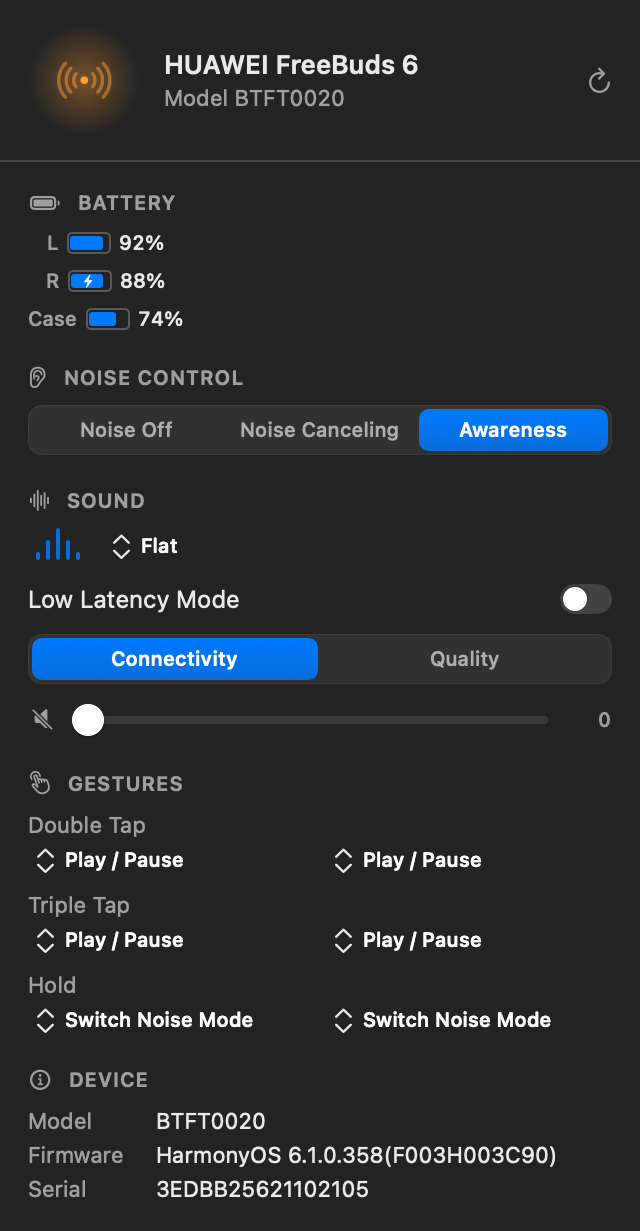
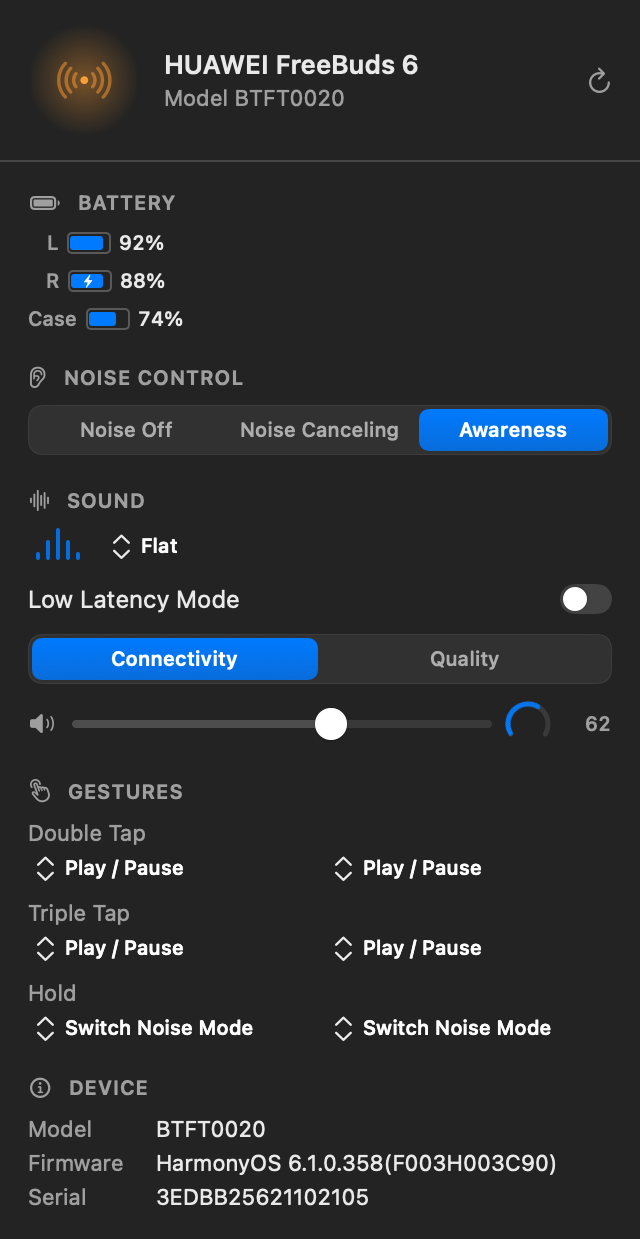
Fix the volume control: drive the Bluetooth sink's virtual main volume
The panel's volume slider was inert on Bluetooth earbuds:

- A pair of earbuds registers two CoreAudio devices under the same name —
  one for the microphone, one for the speakers. The lookup matched on name
  and picked the input device, which has no output volume.
- A Bluetooth sink keeps its software volume in the virtual main volume
  property ('vmvc'), not in kAudioDevicePropertyVolumeScalar, so the
  property the code read did not exist on the device and the level stayed
  at 0 while writes failed silently.

Now the input device is filtered out by checking for an output stream, and
the volume is read and written through the virtual main volume with the
per-channel scalars kept as a fallback. The live panel shows the real
level again.

Also replaces the AppKit-backed segmented pickers, popup buttons and
switch with hand-drawn SwiftUI controls, so the documentation renders
match the app, and adds the level arc to the volume row.

diff --git a/Sources/BudsCore/OutputVolume.swift b/Sources/BudsCore/OutputVolume.swift
@@ -34,6 +34,28 @@ public enum OutputVolume {
         return size
     }
 
+    /// The "virtual main volume" selector.
+    ///
+    /// Bluetooth audio devices expose their software volume through this
+    /// property rather than through `kAudioDevicePropertyVolumeScalar`: it
+    /// is the single value CoreAudio keeps for the sink, and the one the
+    /// earbuds follow. The constant is not part of the public SDK headers,
+    /// but it is the value CoreAudio itself uses for Bluetooth devices.
+    static let virtualMainVolume: AudioObjectPropertySelector = 0x766D7663  // 'vmvc'
+
+    /// The properties that can carry a device's output volume, in the order
+    /// they are tried.
+    ///
+    /// The virtual main volume comes first because it is the only one a
+    /// Bluetooth sink is guaranteed to have. The per-channel scalars follow
+    /// for devices that expose no aggregate volume.
+    static let volumeProperties: [(selector: AudioObjectPropertySelector, element: AudioObjectPropertyElement)] = [
+        (virtualMainVolume, 0),
+        (kAudioDevicePropertyVolumeScalar, kAudioObjectPropertyElementMain),
+        (kAudioDevicePropertyVolumeScalar, 1),
+        (kAudioDevicePropertyVolumeScalar, 0)
+    ]
+
     private static func propertyData(_ device: AudioObjectID, _ address: inout AudioObjectPropertyAddress, _ size: UInt32) -> Data? {
         var buffer = Data(count: Int(size))
         var mutableSize = size
@@ -123,30 +145,61 @@ public enum OutputVolume {
 
     /// Current output volume as a value between 0 and 1.
     public static func level(of device: AudioObjectID) -> Float? {
-        var address = AudioObjectPropertyAddress(
-            mSelector: kAudioDevicePropertyVolumeScalar,
-            mScope: kAudioDevicePropertyScopeOutput,
-            mElement: kAudioObjectPropertyElementMain
-        )
-        guard AudioObjectHasProperty(device, &address) else { return nil }
-        var value: Float32 = 0
-        var size = UInt32(MemoryLayout<Float32>.size)
-        guard AudioObjectGetPropertyData(device, &address, 0, nil, &size, &value) == noErr else { return nil }
-        return min(max(value, 0), 1)
+        for property in volumeProperties {
+            var address = AudioObjectPropertyAddress(
+                mSelector: property.selector,
+                mScope: kAudioDevicePropertyScopeOutput,
+                mElement: property.element
+            )
+            guard AudioObjectHasProperty(device, &address) else { continue }
+            var value: Float32 = 0
+            var size = UInt32(MemoryLayout<Float32>.size)
+            guard AudioObjectGetPropertyData(device, &address, 0, nil, &size, &value) == noErr else { continue }
+            return min(max(value, 0), 1)
+        }
+        return nil
     }
 
     /// Sets the output volume of a device. `level` is between 0 and 1.
     public static func setLevel(_ level: Float, of device: AudioObjectID) -> Bool {
         let clamped = min(max(level, 0), 1)
+        for property in volumeProperties {
+            var address = AudioObjectPropertyAddress(
+                mSelector: property.selector,
+                mScope: kAudioDevicePropertyScopeOutput,
+                mElement: property.element
+            )
+            guard AudioObjectHasProperty(device, &address) else { continue }
+            var value = Float32(clamped)
+            var size = UInt32(MemoryLayout<Float32>.size)
+            if AudioObjectSetPropertyData(device, &address, 0, nil, size, &value) == noErr {
+                return true
+            }
+        }
+        return false
+    }
+
+    /// Whether a device has an output stream.
+    ///
+    /// A pair of Bluetooth earbuds shows up as two devices with the same
+    /// name: one carries the microphone and one carries the speakers. Only
+    /// the second one has a volume worth driving.
+    public static func isOutputDevice(_ device: AudioObjectID) -> Bool {
         var address = AudioObjectPropertyAddress(
-            mSelector: kAudioDevicePropertyVolumeScalar,
+            mSelector: kAudioDevicePropertyStreamConfiguration,
             mScope: kAudioDevicePropertyScopeOutput,
             mElement: kAudioObjectPropertyElementMain
         )
-        guard AudioObjectHasProperty(device, &address) else { return false }
-        var value = Float32(clamped)
-        var size = UInt32(MemoryLayout<Float32>.size)
-        return AudioObjectSetPropertyData(device, &address, 0, nil, size, &value) == noErr
+        var size = propertySize(device, &address)
+        guard size > 0 else { return false }
+        let raw = UnsafeMutableRawPointer.allocate(byteCount: Int(size), alignment: MemoryLayout<AudioBufferList>.alignment)
+        defer { raw.deallocate() }
+        guard AudioObjectGetPropertyData(device, &address, 0, nil, &size, raw) == noErr else { return false }
+        let list = raw.assumingMemoryBound(to: AudioBufferList.self)
+        for buffer in UnsafeMutableAudioBufferListPointer(list) where buffer.mNumberChannels > 0 {
+            return true
+        }
+        return false
     }
 
     /// Converts a decibel value to the linear scalar CoreAudio expects.

diff --git a/Tests/BudsCoreTests/BudsCoreTests.swift b/Tests/BudsCoreTests/BudsCoreTests.swift
@@ -2,6 +2,7 @@
 // SPDX-License-Identifier: MIT
 
 import Testing
+import CoreAudio
 @testable import BudsCore
 
 @Suite("Wire format")
@@ -135,5 +136,31 @@ struct CommandTests {
         let request = ProtocolCatalogue.setLowLatency(true)
         #expect(request.command == Command.lowLatency)
         #expect(request.fields[1] == [0x01])
+    }
+}
+
+@Suite("Output volume")
+struct OutputVolumeTests {
+
+    /// A Bluetooth sink keeps its software volume in the virtual main
+    /// volume property, and only in the per-channel scalars as a fallback.
+    /// The order matters: reading the wrong one leaves the slider dead.
+    @Test("The virtual main volume is tried before the channel scalars")
+    func virtualVolumeIsTriedFirst() {
+        let selectors = OutputVolume.volumeProperties.map(\.selector)
+        #expect(selectors.first == OutputVolume.virtualMainVolume)
+        #expect(selectors.contains(kAudioDevicePropertyVolumeScalar))
+    }
+
+    /// Every device the system reports has a name, and the input half of a
+    /// Bluetooth headset is not mistaken for a volume target.
+    @Test("Input-only devices are not treated as outputs")
+    func inputDevicesAreNotOutputs() {
+        for device in OutputVolume.allDevices() {
+            #expect(!OutputVolume.name(of: device).isEmpty)
+            if !OutputVolume.isOutputDevice(device) {
+                #expect(OutputVolume.level(of: device) == nil)
+            }
+        }
     }
 }

diff --git a/Sources/BudsUI/Motion.swift b/Sources/BudsUI/Motion.swift
@@ -229,6 +229,10 @@ struct LevelArc: View {
     var level: Double
     /// 0...1 growth progress of the arc.
     var progress: Double
+    /// Outer size of the arc, in points.
+    var size: CGFloat = 34
+    /// Stroke width of the arc, in points.
+    var lineWidth: CGFloat = 2.5
 
     private var filled: Double { min(max(level, 0), 1) * min(max(progress, 0), 1) }
 
@@ -236,7 +240,7 @@ struct LevelArc: View {
         ZStack {
             Circle()
                 .trim(from: 0, to: 0.667)
-                .stroke(Color.secondary.opacity(0.18), style: .init(lineWidth: 2.5, lineCap: .round))
+                .stroke(Color.secondary.opacity(0.18), style: .init(lineWidth: lineWidth, lineCap: .round))
                 .rotationEffect(.degrees(150))
 
             Circle()
@@ -246,11 +250,11 @@ struct LevelArc: View {
                         colors: filled > 0.85 ? [Color.accentColor, .red] : [Color.accentColor, Color.accentColor.opacity(0.7)],
                         center: .center
                     ),
-                    style: .init(lineWidth: 2.5, lineCap: .round)
+                    style: .init(lineWidth: lineWidth, lineCap: .round)
                 )
                 .rotationEffect(.degrees(150))
         }
-        .frame(width: 34, height: 34)
+        .frame(width: size, height: size)
     }
 }
 

diff --git a/Sources/BudsUI/VolumeModel.swift b/Sources/BudsUI/VolumeModel.swift
@@ -44,7 +44,11 @@ final class VolumeModel: ObservableObject {
 
     /// Re-resolves the audio output device that belongs to the earbuds.
     func reload() {
-        let candidates = OutputVolume.allDevices()
+        // A pair of Bluetooth earbuds registers two devices under the same
+        // name: one carries the microphone, the other the speakers. Only a
+        // device with an output stream can hold a volume worth driving, so
+        // the input device is filtered out first.
+        let candidates = OutputVolume.allDevices().filter { OutputVolume.isOutputDevice($0) }
         // Prefer a Bluetooth output whose name mentions the earbuds.
         let earbud = candidates.first { device in
             let name = OutputVolume.name(of: device).lowercased()

diff --git a/Sources/BudsUI/PanelContent.swift b/Sources/BudsUI/PanelContent.swift
@@ -112,6 +112,7 @@ public struct PanelContent<Model: BudsViewModel>: View {
                 .frame(width: 14)
             Slider(value: volumeBinding, in: 0...1)
                 .controlSize(.small)
+            LevelArc(level: volume.level, progress: 1, size: 20, lineWidth: 2.5)
             Text("\(Int(volume.level * 100))")
                 .font(.system(size: 10, weight: .medium))
                 .monospacedDigit()

diff --git a/docs/architecture/DESIGN.md b/docs/architecture/DESIGN.md
@@ -35,8 +35,8 @@ from scratch with SwiftUI `Canvas` and shape primitives.
 
 | Event | Motion | Timing |
 |---|---|---|
-| Connect | Two rings radiate from the glyph, the outer one staggered by 0.12 s | 0.55 s per ring |
-| Disconnect | Rings contract, glyph desaturates | 0.30 s |
+| Connect | A conic sweep spins behind the glyph while three rings radiate outward, staggered by 0.18 s | 0.72 s per ring |
+| Disconnect | Glyph desaturates, the sweep stops | 0.30 s |
 | Noise control | Waves collapse inward when cancelling, drift outward otherwise; a halo blooms behind the glyph | 0.35 s |
 | Equalizer | Five bars re-shape to the new curve, left to right | 0.36 s |
 | Volume | A 240° arc fills to the new level, turning red above 85 % | 0.12 s |
@@ -52,6 +52,26 @@ Guidelines followed:
   repeating it is a UX smell. The panel shows the value, and the arc
   is a readout rather than a celebration.
 - **Alerts are static.** A low battery is a colour, not a motion.
+
+## Hand-drawn controls
+
+The segmented controls, value menus and the switch are drawn in SwiftUI
+rather than taken from AppKit. Two reasons:
+
+- **Rendering.** `NSSegmentedControl`, `NSPopUpButton` and `NSSwitch` draw
+  their labels on layers that an offscreen capture does not reach, so the
+  documentation renders showed empty pills and a permanently off switch.
+  Drawing the controls in SwiftUI makes the captured image identical to
+  what the app shows.
+- **Consistency.** The panel already speaks its own visual language —
+  accent-tinted segments, rounded chips, a blooming halo. Stock chrome sat
+  awkwardly next to it.
+
+Accessibility is not lost: the hand-drawn switch exposes a native `Toggle`
+through `accessibilityRepresentation`, the segments are buttons carrying the
+selected trait, and the value menus report their current value as the
+accessibility value. The live panel's accessibility tree was checked
+against the running app.
 
 ## WidgetKit
 
@@ -89,3 +109,16 @@ The earbuds expose no volume command. The in-ear volume is whatever
 macOS sends to the Bluetooth sink, so the slider drives the CoreAudio
 output device whose name matches the earbuds. A device-side "sound
 quality preference" setting steers the codec preference separately.
+
+Two details make the bridge work on Bluetooth devices:
+
+- A pair of earbuds registers **two** CoreAudio devices under the same
+  name — one for the microphone, one for the speakers. Only the one with
+  an output stream is a valid volume target, so the input device is
+  filtered out before the name is matched.
+- Bluetooth sinks expose their software volume through the **virtual main
+  volume** property (`'vmvc'`), not through
+  `kAudioDevicePropertyVolumeScalar`. The selector is not in the public
+  SDK headers, but it is the property CoreAudio itself keeps for a
+  Bluetooth device, and the earbuds follow it. The scalar properties are
+  still tried as a fallback for other devices.

diff --git a/docs/research/MOTION.md b/docs/research/MOTION.md
@@ -52,7 +52,7 @@ reads as one wave.**
 
 ## What was built
 
-`Sources/BudsBar/Motion.swift` implements the same **motion idea** with
+`Sources/BudsUI/Motion.swift` implements the same **motion idea** with
 original geometry, palette, timing and rendering technique:
 
 | Element | Implementation |
